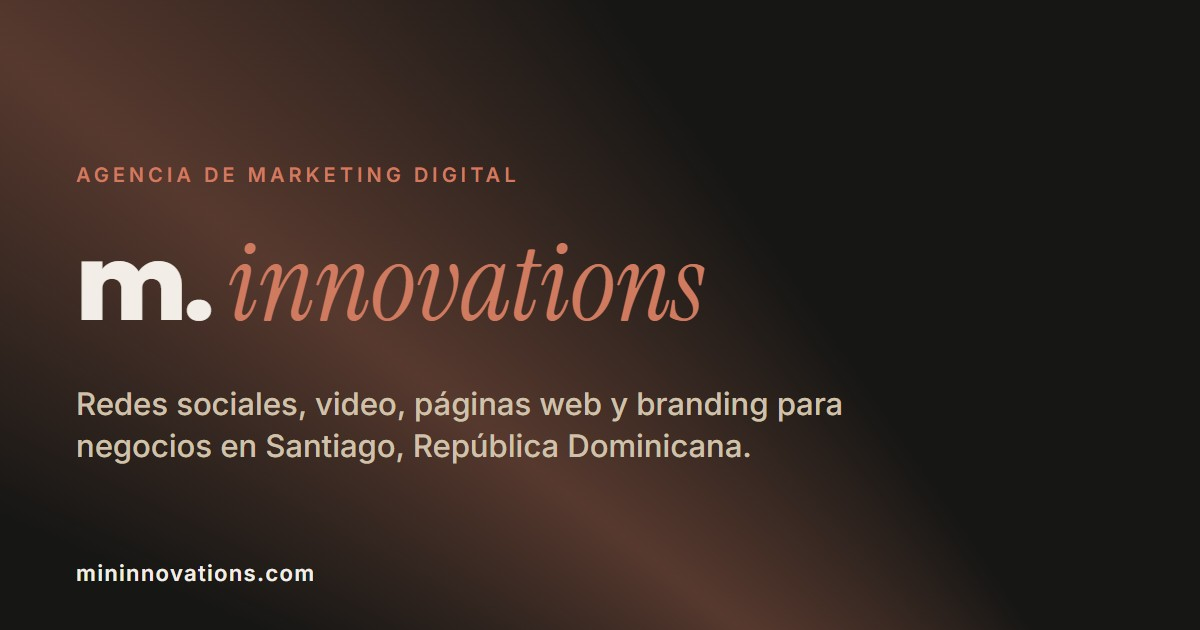
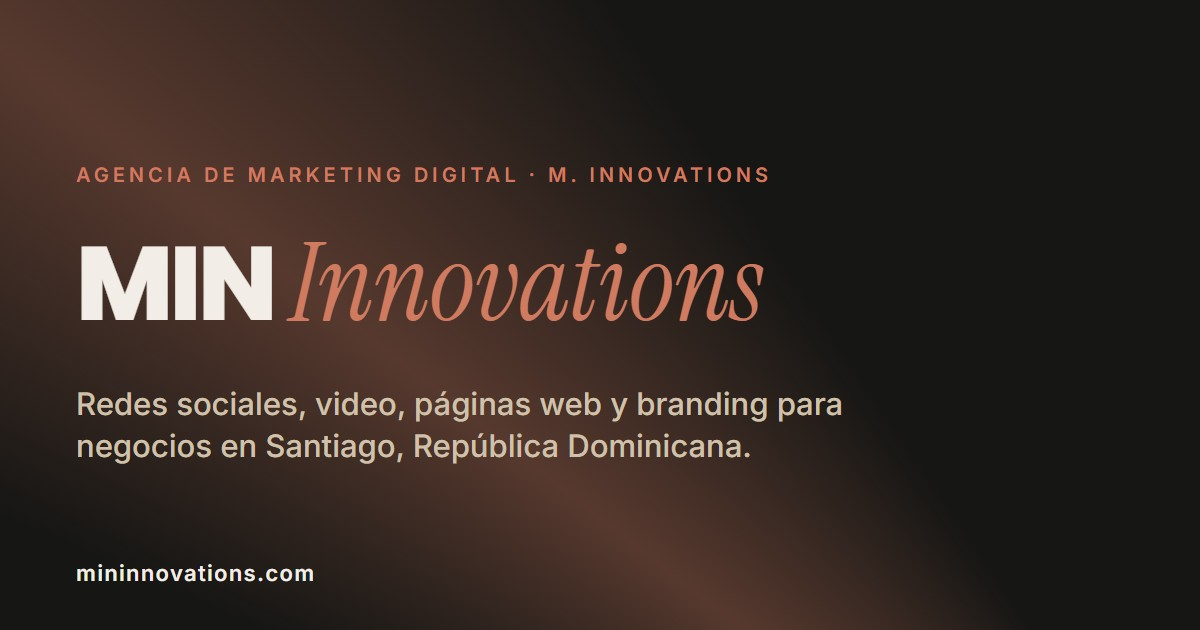
Nombre principal MIN Innovations en titulo, datos estructurados y textos; alias m. innovations

Changed region(s): [[0.0617, 0.3619, 0.6475, 0.5127], [0.4317, 0.2413, 0.6475, 0.3016]]

diff --git a/index.html b/index.html
@@ -3,26 +3,26 @@
 <head>
 <meta charset="UTF-8">
 <meta name="viewport" content="width=device-width, initial-scale=1.0">
-<title>m. innovations — Agencia de Marketing Digital en Santiago, RD</title>
-<meta name="description" content="m. innovations (MIN Innovations) es una agencia de marketing digital en Santiago, República Dominicana. Redes sociales, video, páginas web y branding.">
+<title>MIN Innovations — Agencia de Marketing Digital en Santiago, RD</title>
+<meta name="description" content="MIN Innovations (m. innovations) es una agencia de marketing digital en Santiago, República Dominicana. Redes sociales, video, páginas web y branding.">
 <link rel="canonical" href="https://mininnovations.com/">
 <meta name="robots" content="index,follow,max-image-preview:large">
 <meta name="theme-color" content="#161614">
-<meta property="og:site_name" content="m. innovations">
+<meta property="og:site_name" content="MIN Innovations">
 <meta property="og:locale" content="es_DO">
 <meta property="og:type" content="website">
 <meta property="og:url" content="https://mininnovations.com/">
-<meta property="og:title" content="m. innovations — Agencia de Marketing Digital en Santiago, RD">
-<meta property="og:description" content="m. innovations (MIN Innovations) es una agencia de marketing digital en Santiago, República Dominicana. Redes sociales, video, páginas web y branding.">
+<meta property="og:title" content="MIN Innovations — Agencia de Marketing Digital en Santiago, RD">
+<meta property="og:description" content="MIN Innovations (m. innovations) es una agencia de marketing digital en Santiago, República Dominicana. Redes sociales, video, páginas web y branding.">
 <meta property="og:image" content="https://mininnovations.com/images/og-mininnovations.jpg">
 <meta property="og:image:width" content="1200">
 <meta property="og:image:height" content="630">
-<meta property="og:image:alt" content="m. innovations, agencia de marketing digital en Santiago, República Dominicana">
+<meta property="og:image:alt" content="MIN Innovations, agencia de marketing digital en Santiago, República Dominicana">
 <meta name="twitter:card" content="summary_large_image">
-<meta name="twitter:title" content="m. innovations — Agencia de Marketing Digital en Santiago, RD">
-<meta name="twitter:description" content="m. innovations (MIN Innovations) es una agencia de marketing digital en Santiago, República Dominicana. Redes sociales, video, páginas web y branding.">
+<meta name="twitter:title" content="MIN Innovations — Agencia de Marketing Digital en Santiago, RD">
+<meta name="twitter:description" content="MIN Innovations (m. innovations) es una agencia de marketing digital en Santiago, República Dominicana. Redes sociales, video, páginas web y branding.">
 <meta name="twitter:image" content="https://mininnovations.com/images/og-mininnovations.jpg">
-<script type="application/ld+json">{"@context": "https://schema.org", "@graph": [{"@type": "WebSite", "@id": "https://mininnovations.com/#website", "url": "https://mininnovations.com/", "name": "m. innovations", "alternateName": ["min innovations", "MIN Innovations", "m.innovations", "M Innovations", "mininnovations"], "inLanguage": "es-DO", "publisher": {"@id": "https://mininnovations.com/#org"}}, {"@type": "ProfessionalService", "@id": "https://mininnovations.com/#org", "name": "m. innovations", "alternateName": ["min innovations", "MIN Innovations", "m.innovations", "M Innovations", "mininnovations"], "url": "https://mininnovations.com/", "logo": "https://mininnovations.com/images/logo-m.png", "image": "https://mininnovations.com/images/og-mininnovations.jpg", "description": "m. innovations (MIN Innovations) es una agencia de marketing digital en Santiago, República Dominicana. Redes sociales, video, páginas web y branding.", "telephone": "+1-849-460-1912", "email": "mininnovationsdr@gmail.com", "address": {"@type": "PostalAddress", "addressLocality": "Santiago de los Caballeros", "addressRegion": "Santiago", "addressCountry": "DO"}, "areaServed": [{"@type": "City", "name": "Santiago de los Caballeros"}, {"@type": "Country", "name": "República Dominicana"}], "serviceType": ["Manejo de redes sociales", "Producción de video", "Diseño de páginas web", "Branding e identidad visual", "Marketing digital"], "sameAs": ["https://www.behance.net/mininnovationsdo"], "potentialAction": {"@type": "ReserveAction", "name": "Agendar una llamada virtual", "target": {"@type": "EntryPoint", "urlTemplate": "https://calendar.app.google/TKrikrU4YgMFgNCTA", "actionPlatform": ["http://schema.org/DesktopWebPlatform", "http://schema.org/MobileWebPlatform"]}}}]}</script>
+<script type="application/ld+json">{"@context": "https://schema.org", "@graph": [{"@type": "WebSite", "@id": "https://mininnovations.com/#website", "url": "https://mininnovations.com/", "name": "MIN Innovations", "alternateName": ["m. innovations", "min innovations", "m.innovations", "M Innovations", "mininnovations", "MIN Innovations Santiago"], "inLanguage": "es-DO", "publisher": {"@id": "https://mininnovations.com/#org"}}, {"@type": "ProfessionalService", "@id": "https://mininnovations.com/#org", "name": "MIN Innovations", "alternateName": ["m. innovations", "min innovations", "m.innovations", "M Innovations", "mininnovations", "MIN Innovations Santiago"], "url": "https://mininnovations.com/", "logo": "https://mininnovations.com/images/logo-m.png", "image": "https://mininnovations.com/images/og-mininnovations.jpg", "description": "MIN Innovations (m. innovations) es una agencia de marketing digital en Santiago, República Dominicana. Redes sociales, video, páginas web y branding.", "telephone": "+1-849-460-1912", "email": "mininnovationsdr@gmail.com", "address": {"@type": "PostalAddress", "addressLocality": "Santiago de los Caballeros", "addressRegion": "Santiago", "addressCountry": "DO"}, "areaServed": [{"@type": "City", "name": "Santiago de los Caballeros"}, {"@type": "Country", "name": "República Dominicana"}], "serviceType": ["Manejo de redes sociales", "Producción de video", "Diseño de páginas web", "Branding e identidad visual", "Marketing digital"], "sameAs": ["https://www.behance.net/mininnovationsdo"], "potentialAction": {"@type": "ReserveAction", "name": "Agendar una llamada virtual", "target": {"@type": "EntryPoint", "urlTemplate": "https://calendar.app.google/TKrikrU4YgMFgNCTA", "actionPlatform": ["http://schema.org/DesktopWebPlatform", "http://schema.org/MobileWebPlatform"]}}}]}</script>
 <link rel="icon" href="images/logo-blanco.png">
 <link rel="preconnect" href="https://fonts.googleapis.com">
 <link rel="preconnect" href="https://fonts.gstatic.com" crossorigin>
@@ -272,9 +272,9 @@ footer{background:var(--negro);color:var(--arena);border-top:1px solid var(--lin
   <div class="rayos a"></div>
   <div class="rayos b"></div>
   <div class="wrap">
-    <span class="chip"><i></i>Agencia de marketing digital · Santiago, República Dominicana</span>
+    <span class="chip"><i></i>MIN Innovations · Agencia de marketing digital · Santiago, RD</span>
     <h1>Marcas que se ven bien <span class="serif">y venden mejor.</span></h1>
-    <p>m. innovations (MIN Innovations) es una agencia de marketing digital en Santiago, RD. Redes sociales, video, páginas web y branding. Estrategia primero, estética después.</p>
+    <p>MIN Innovations (m. innovations) es una agencia de marketing digital en Santiago, RD. Redes sociales, video, páginas web y branding. Estrategia primero, estética después.</p>
     <div class="hero-cta">
       <a href="https://calendar.app.google/TKrikrU4YgMFgNCTA" target="_blank" rel="noopener" class="btn btn-claro">Agendar llamada virtual</a>
       <a href="#contacto" class="btn btn-linea">Trabajemos juntos</a>
@@ -540,7 +540,7 @@ footer{background:var(--negro);color:var(--arena);border-top:1px solid var(--lin
 
 <footer>
   <div class="wrap foot">
-    <span>© 2026 m. innovations (MIN Innovations) · Agencia de marketing digital en Santiago, República Dominicana</span>
+    <span>© 2026 MIN Innovations (m. innovations) · Agencia de marketing digital en Santiago, República Dominicana</span>
     <nav>
       <a href="https://www.behance.net/mininnovationsdo" target="_blank" rel="noopener">Behance</a>
       <a href="https://calendar.app.google/TKrikrU4YgMFgNCTA" target="_blank" rel="noopener">Agendar llamada</a>

diff --git a/solicitud.html b/solicitud.html
@@ -3,7 +3,7 @@
 <head>
 <meta charset="UTF-8">
 <meta name="viewport" content="width=device-width, initial-scale=1.0">
-<title>Solicitud de servicios — m. innovations</title>
+<title>Solicitud de servicios — MIN Innovations</title>
 <meta name="description" content="Solicita una cotización con m. innovations, agencia de marketing digital en Santiago, RD: redes sociales, video, páginas web y branding.">
 <link rel="canonical" href="https://mininnovations.com/solicitud.html">
 <link href="https://fonts.googleapis.com/css2?family=Inter:wght@400;500;600;700;800;900&display=swap" rel="stylesheet">
